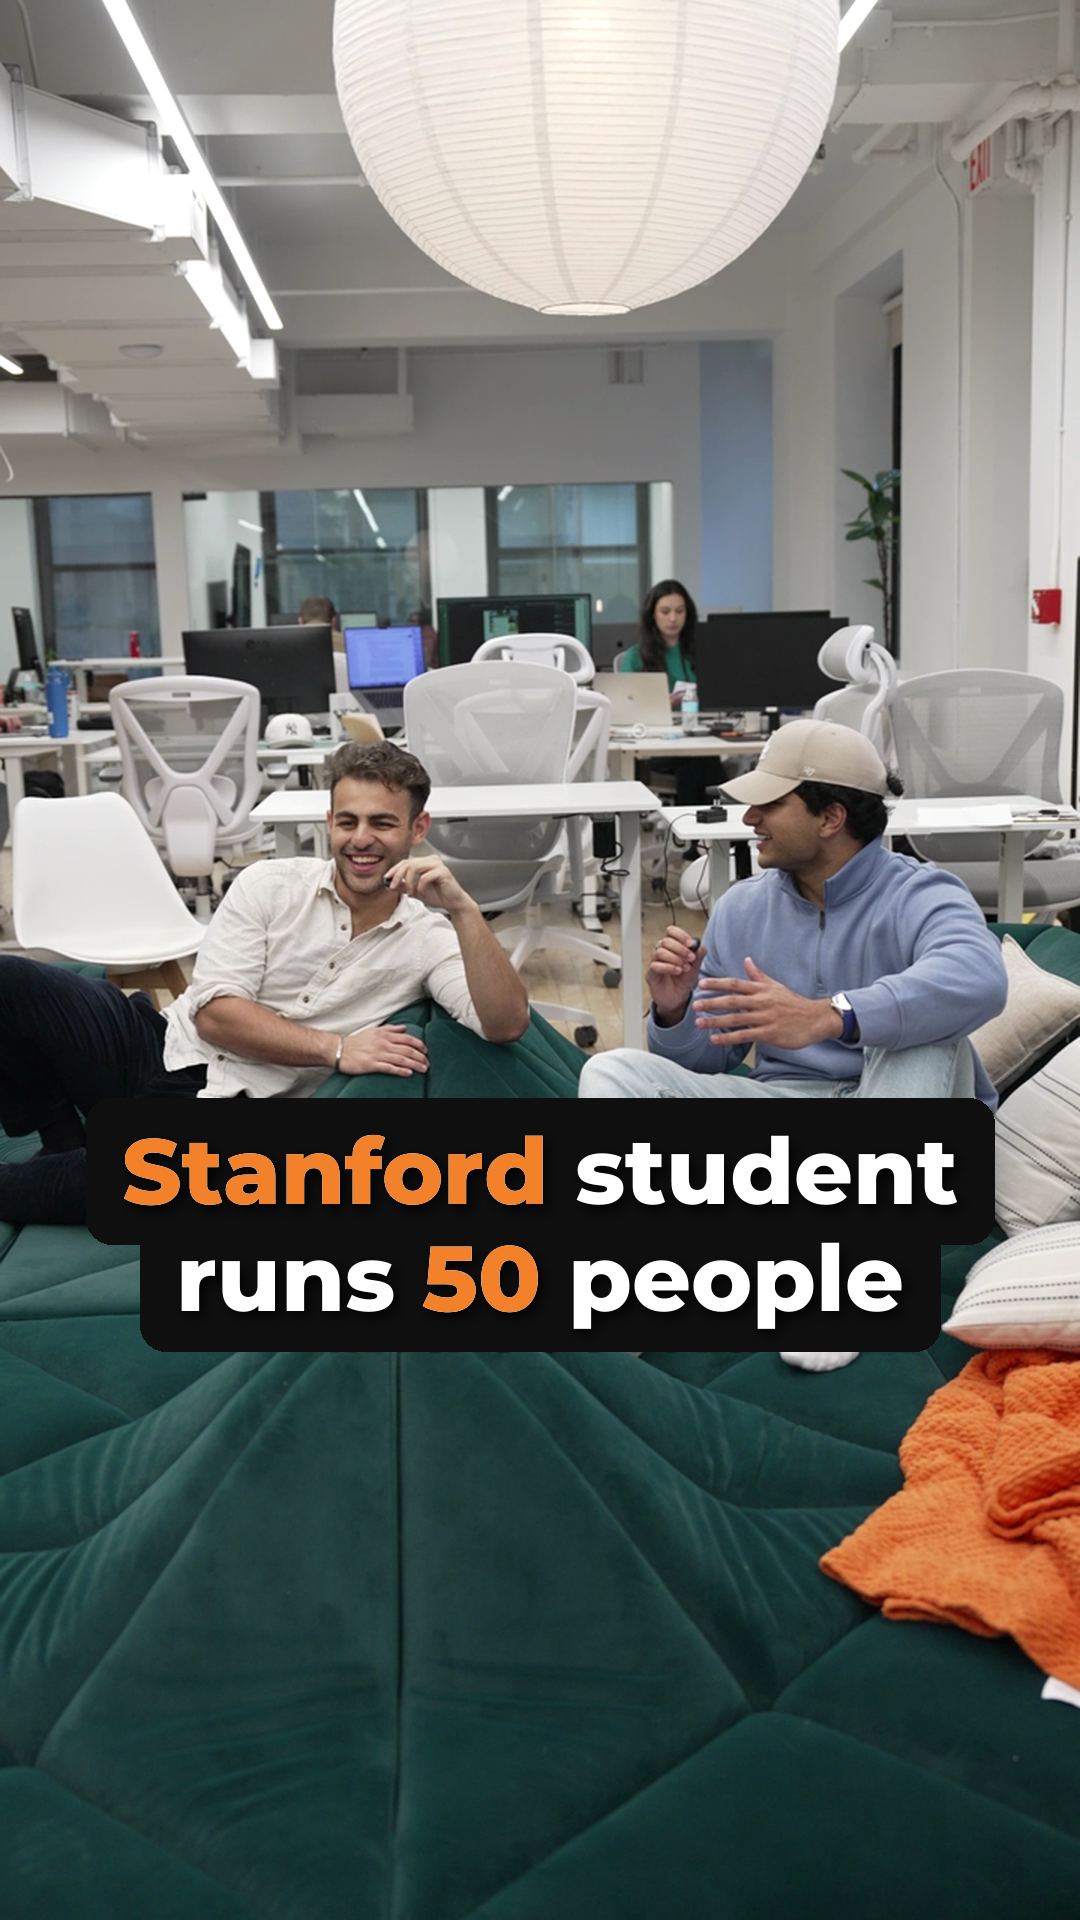
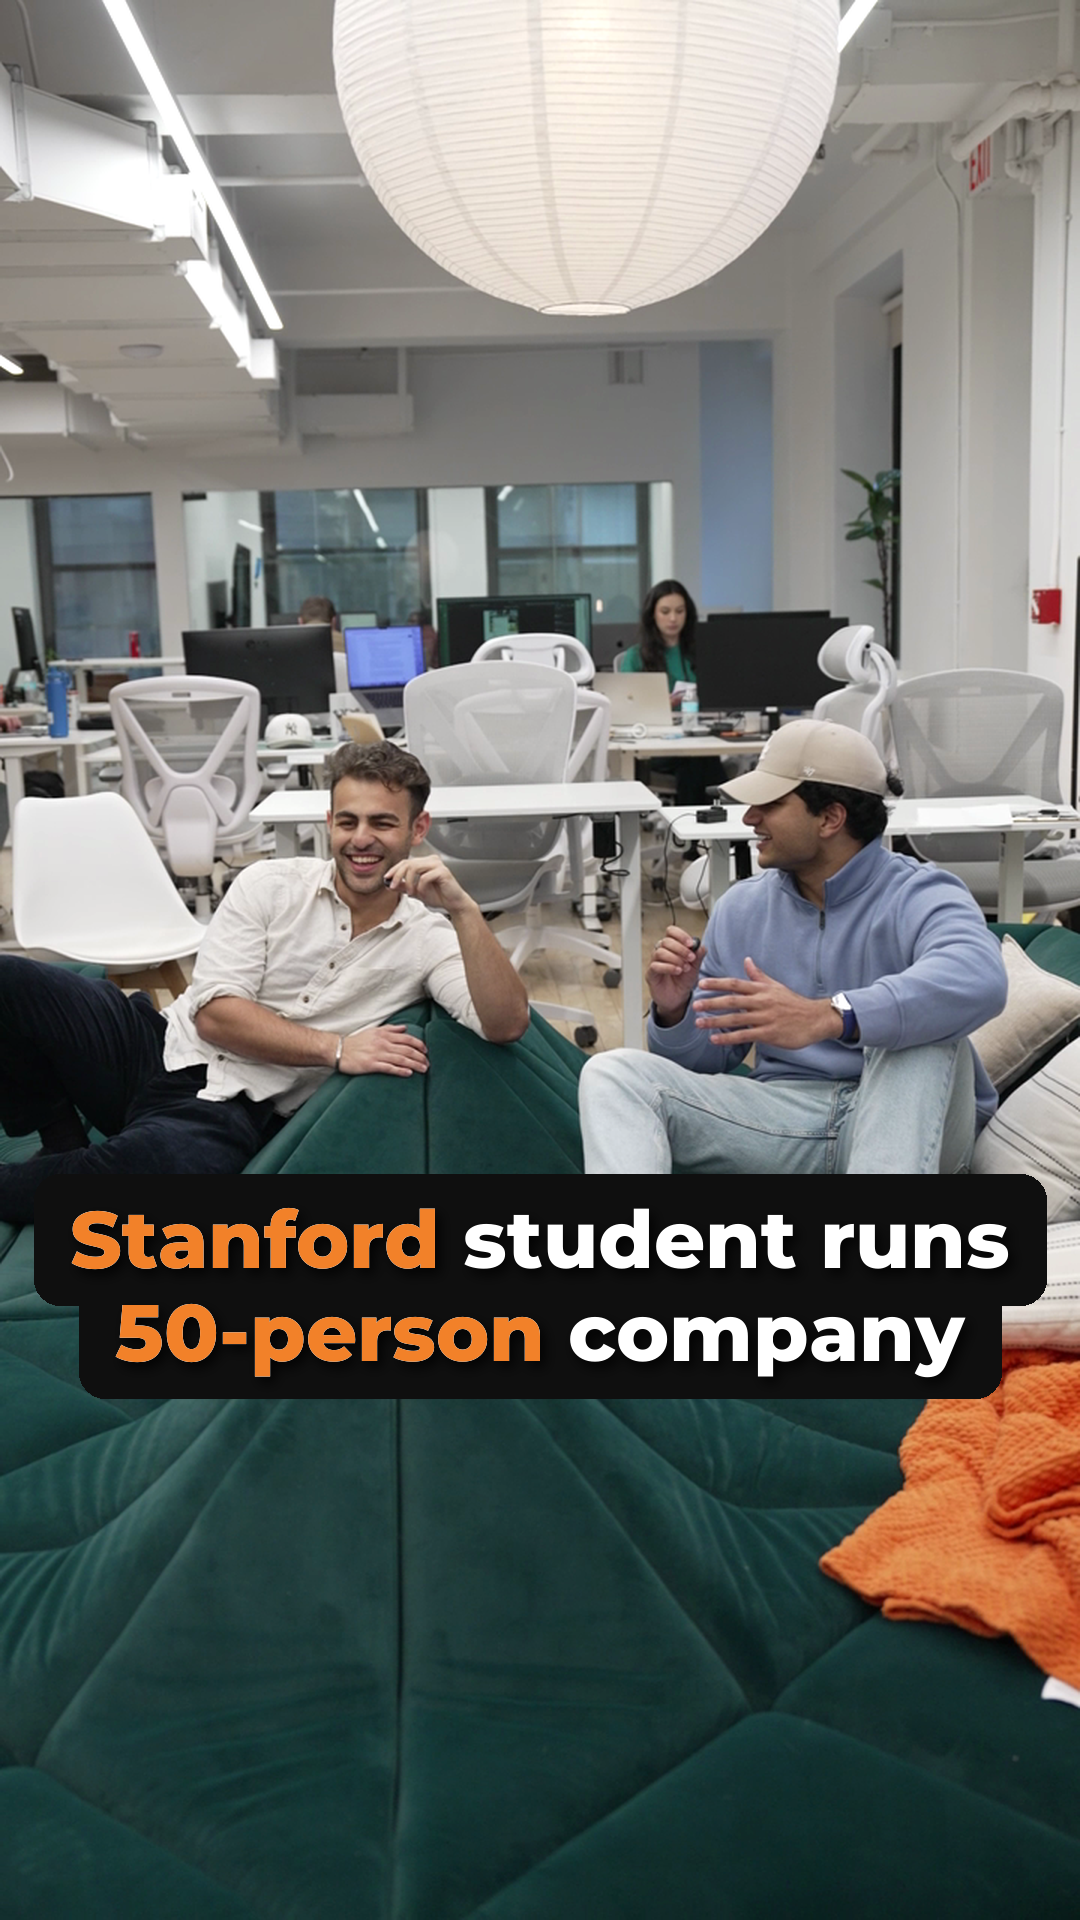
Preview D all clean: burned captions removed, Stanford 50-person, money 90% orange; export 32,34,36-40

Changed region(s): [[0.0306, 0.5625, 0.9778, 0.75]]

diff --git a/python-scripts/ig-grid-thumbs/render_thumb.py b/python-scripts/ig-grid-thumbs/render_thumb.py
@@ -173,7 +173,7 @@ def render(frame_img, title, accent=None, pos="top", bg="scrim", out="cover.png"
     txt = Image.new("RGBA", (W, H), (0, 0, 0, 0))
     td = ImageDraw.Draw(txt)
 
-    accents = {a.strip().lower() for a in (accent or "").split(",") if a.strip()}
+    accents = {re.sub(r"[^\w']", "", a).lower() for a in (accent or "").split(",") if a.strip()}
     line_h = round(size * LINE_SPACING)
     for i, line in enumerate(lines):
         y = y0 + i * line_h
